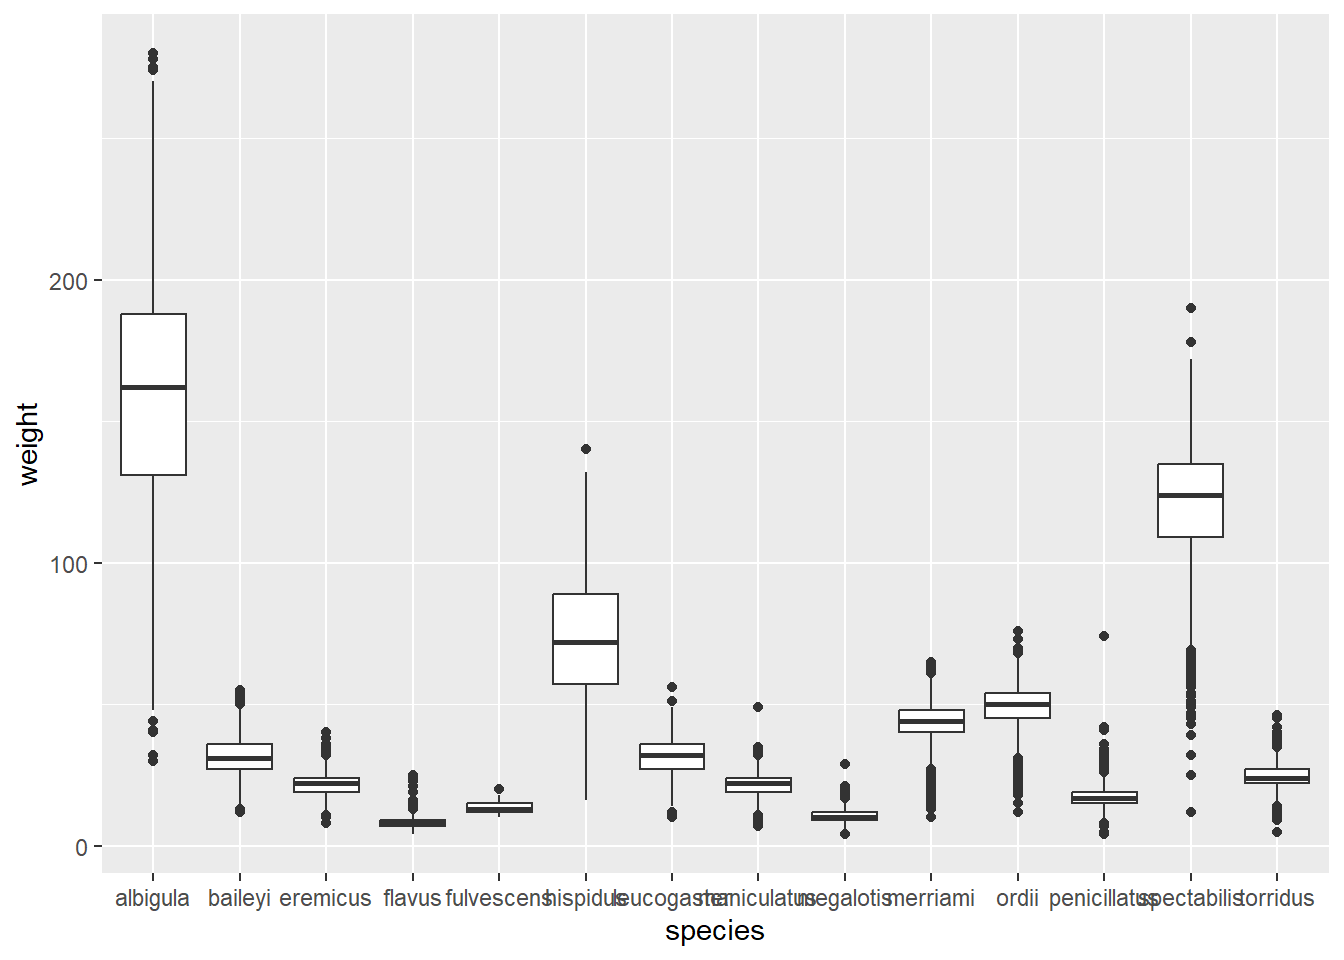
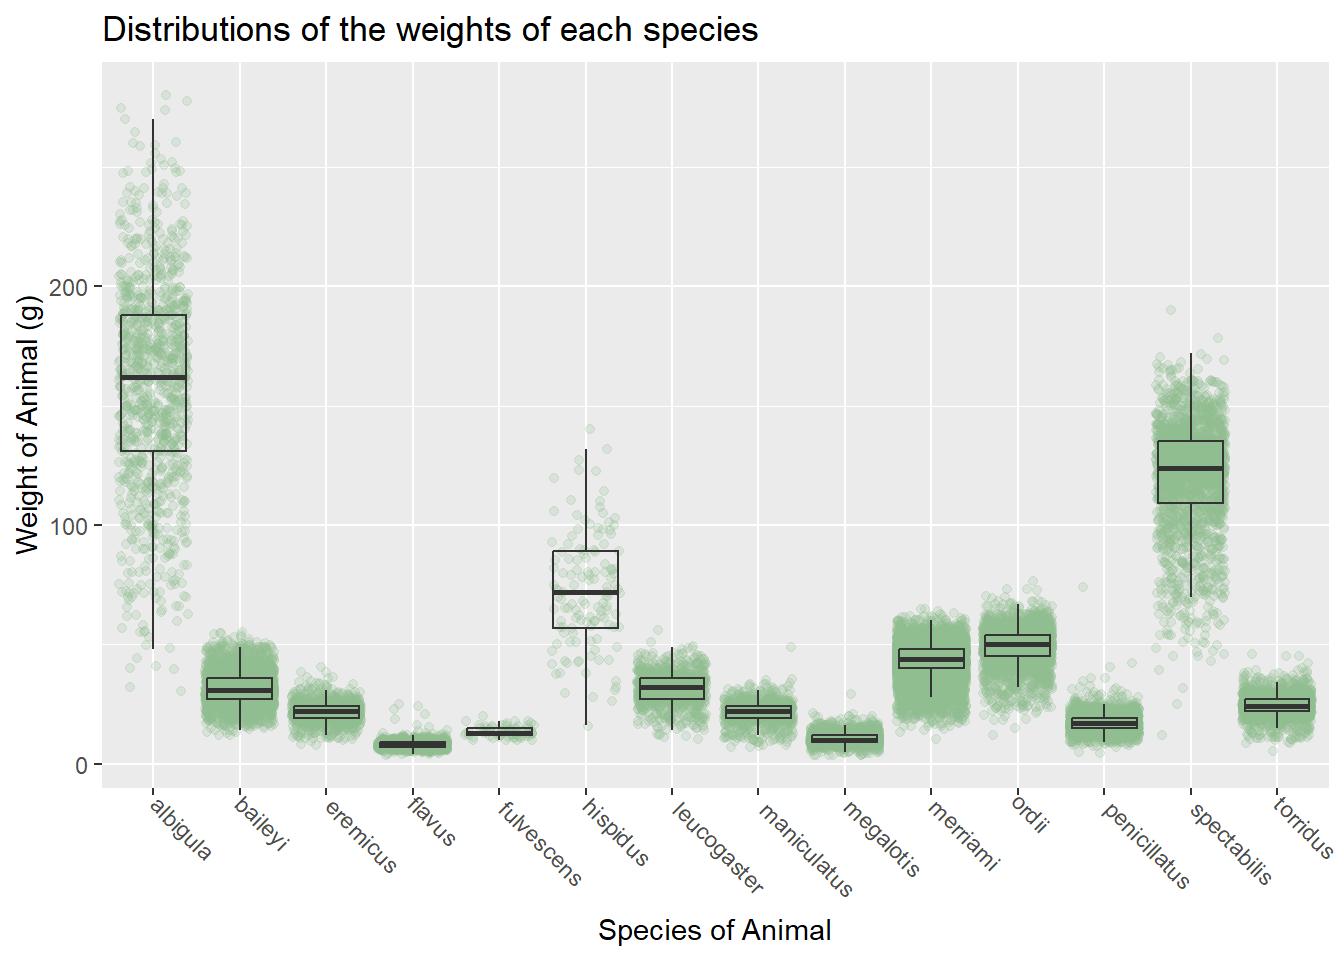
Complete lab 3

diff --git a/lab-3-student.html b/lab-3-student.html
@@ -320,8 +320,11 @@ $ taxa            &lt;chr&gt; "Rodent", "Rodent", "Rodent", "Rodent", "Rodent", 
 <section id="boxplots" class="level2">
 <h2 class="anchored" data-anchor-id="boxplots">Boxplots</h2>
 <div class="cell">
-<div class="sourceCode cell-code" id="cb9"><pre class="sourceCode r code-with-copy"><code class="sourceCode r"><span id="cb9-1"><a href="#cb9-1" aria-hidden="true" tabindex="-1"></a><span class="fu">ggplot</span>(<span class="at">data =</span> surveys) <span class="sc">+</span></span>
-<span id="cb9-2"><a href="#cb9-2" aria-hidden="true" tabindex="-1"></a>  <span class="fu">geom_boxplot</span>(<span class="fu">aes</span>(<span class="at">x =</span> species, <span class="at">y =</span> weight))</span></code><button title="Copy to Clipboard" class="code-copy-button"><i class="bi"></i></button></pre></div>
+<div class="sourceCode cell-code" id="cb9"><pre class="sourceCode r code-with-copy"><code class="sourceCode r"><span id="cb9-1"><a href="#cb9-1" aria-hidden="true" tabindex="-1"></a><span class="fu">ggplot</span>(<span class="fu">aes</span>(<span class="at">x =</span> species, <span class="at">y =</span> weight), <span class="at">data =</span> surveys) <span class="sc">+</span></span>
+<span id="cb9-2"><a href="#cb9-2" aria-hidden="true" tabindex="-1"></a>  <span class="fu">geom_jitter</span>(<span class="at">color =</span> <span class="st">"darkseagreen"</span>, <span class="at">alpha =</span> <span class="fl">0.2</span>) <span class="sc">+</span></span>
+<span id="cb9-3"><a href="#cb9-3" aria-hidden="true" tabindex="-1"></a>  <span class="fu">geom_boxplot</span>(<span class="at">alpha =</span> <span class="dv">0</span>) <span class="sc">+</span></span>
+<span id="cb9-4"><a href="#cb9-4" aria-hidden="true" tabindex="-1"></a>  <span class="fu">labs</span>(<span class="at">x =</span> <span class="st">"Species of Animal"</span>, <span class="at">y =</span> <span class="st">"Weight of Animal (g)"</span>, <span class="at">title =</span> <span class="st">"Distributions of the weights of each species"</span>) <span class="sc">+</span></span>
+<span id="cb9-5"><a href="#cb9-5" aria-hidden="true" tabindex="-1"></a>  <span class="fu">theme</span>(<span class="at">axis.text.x =</span> <span class="fu">element_text</span>(<span class="at">angle =</span> <span class="dv">315</span>, <span class="at">hjust =</span> <span class="sc">-</span><span class="fl">0.15</span>)) <span class="co">#https://stackoverflow.com/questions/1330989/rotating-and-spacing-axis-labels-in-ggplot2</span></span></code><button title="Copy to Clipboard" class="code-copy-button"><i class="bi"></i></button></pre></div>
 <div class="cell-output-display">
 <div>
 <figure class="figure">
@@ -348,6 +351,19 @@ $ taxa            &lt;chr&gt; "Rodent", "Rodent", "Rodent", "Rodent", "Rodent", 
 <!-- Continue to modify the plot you made for question 10! -->
 <p>Some people (and journals) prefer for boxplots to be stacked with a specific orientation! Let’s practice changing the orientation of our boxplots.</p>
 <p><strong>15. Now copy-paste your boxplot code you’ve been adding to above. Flip the orientation of your boxplots. If you created horizontally stacked boxplots, your boxplots should now be stacked vertically. If you had vertically stacked boxplots, you should now stack your boxplots horizontally!</strong></p>
+<div class="cell">
+<div class="sourceCode cell-code" id="cb10"><pre class="sourceCode r code-with-copy"><code class="sourceCode r"><span id="cb10-1"><a href="#cb10-1" aria-hidden="true" tabindex="-1"></a><span class="fu">ggplot</span>(<span class="fu">aes</span>(<span class="at">x =</span> weight, <span class="at">y =</span> species), <span class="at">data =</span> surveys) <span class="sc">+</span></span>
+<span id="cb10-2"><a href="#cb10-2" aria-hidden="true" tabindex="-1"></a>  <span class="fu">geom_jitter</span>(<span class="at">color =</span> <span class="st">"darkseagreen"</span>, <span class="at">alpha =</span> <span class="fl">0.2</span>) <span class="sc">+</span></span>
+<span id="cb10-3"><a href="#cb10-3" aria-hidden="true" tabindex="-1"></a>  <span class="fu">geom_boxplot</span>(<span class="at">alpha =</span> <span class="dv">0</span>) <span class="sc">+</span></span>
+<span id="cb10-4"><a href="#cb10-4" aria-hidden="true" tabindex="-1"></a>  <span class="fu">labs</span>(<span class="at">x =</span> <span class="st">"Species of Animal"</span>, <span class="at">y =</span> <span class="st">"Weight of Animal (g)"</span>, <span class="at">title =</span> <span class="st">"Distributions of the weights of each species"</span>) </span></code><button title="Copy to Clipboard" class="code-copy-button"><i class="bi"></i></button></pre></div>
+<div class="cell-output-display">
+<div>
+<figure class="figure">
+<p><img src="lab-3-student_files/figure-html/rotated-boxplot-1.png" class="img-fluid figure-img" width="672"></p>
+</figure>
+</div>
+</div>
+</div>
 <p>Notice how vertically stacked boxplots make the species labels more readable than horizontally stacked boxplots (even when the axis labels are rotated). This is good practice!</p>
 </section>
 </section>
